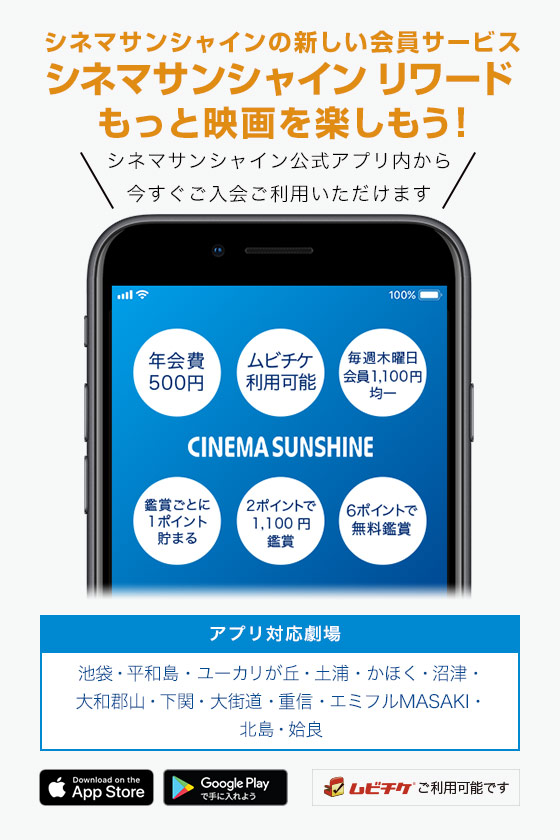
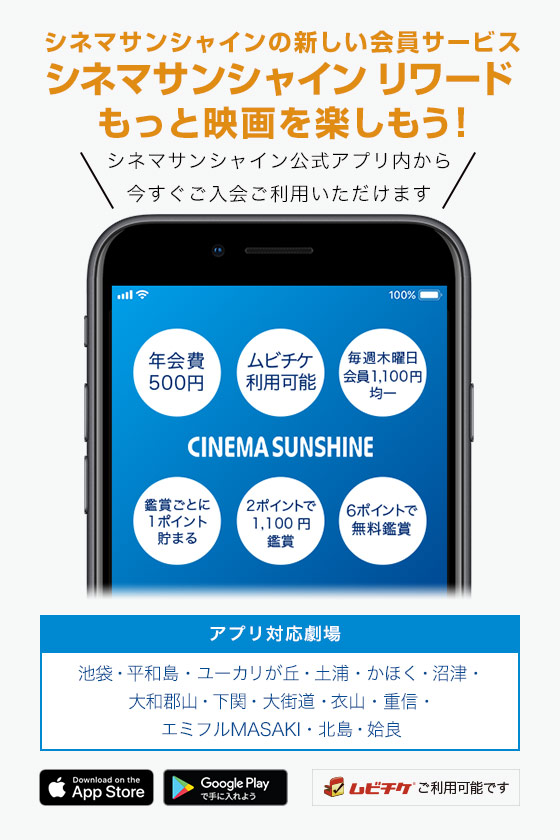
衣山導入関する更新

Changed region(s): [[0.1518, 0.8048, 0.8196, 0.8976]]

diff --git a/public/js/theater/top.js b/public/js/theater/top.js
@@ -44,6 +44,7 @@ function isAppCompatibleTheater() {
         'shimonoseki',
         'kitajima',
         'okaido',
+        'kinuyama',
         'shigenobu',
         'masaki',
         'aira'
